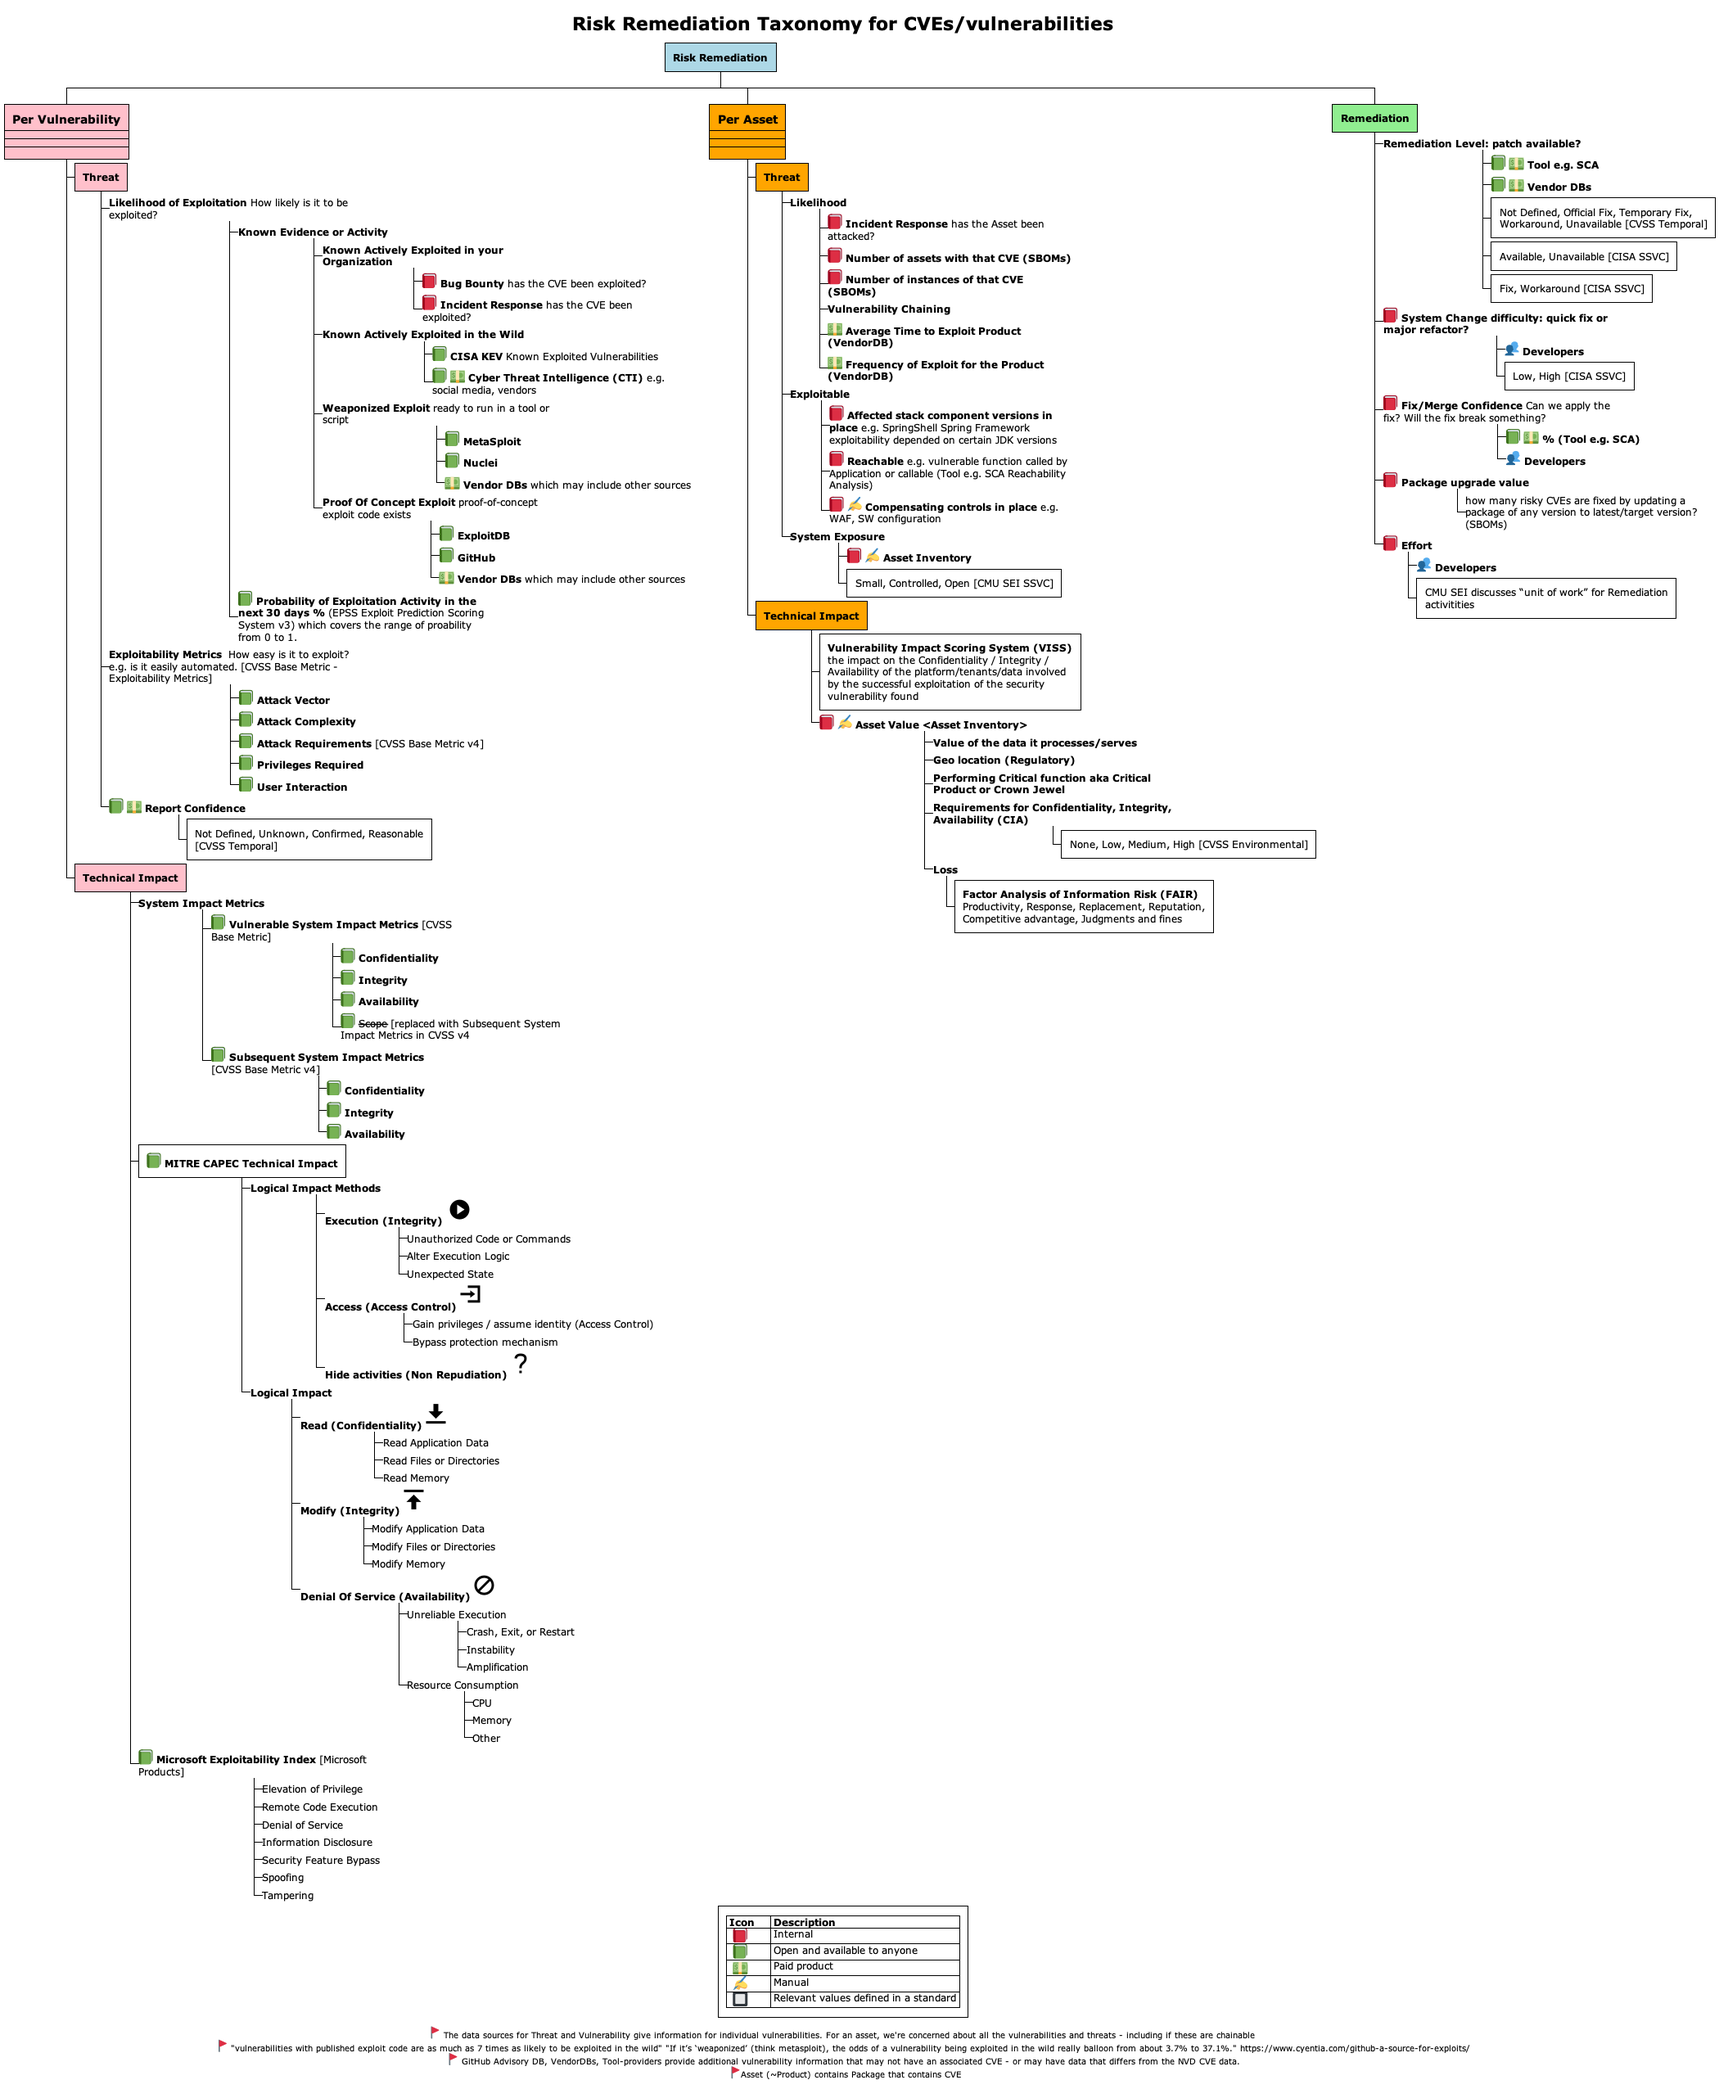
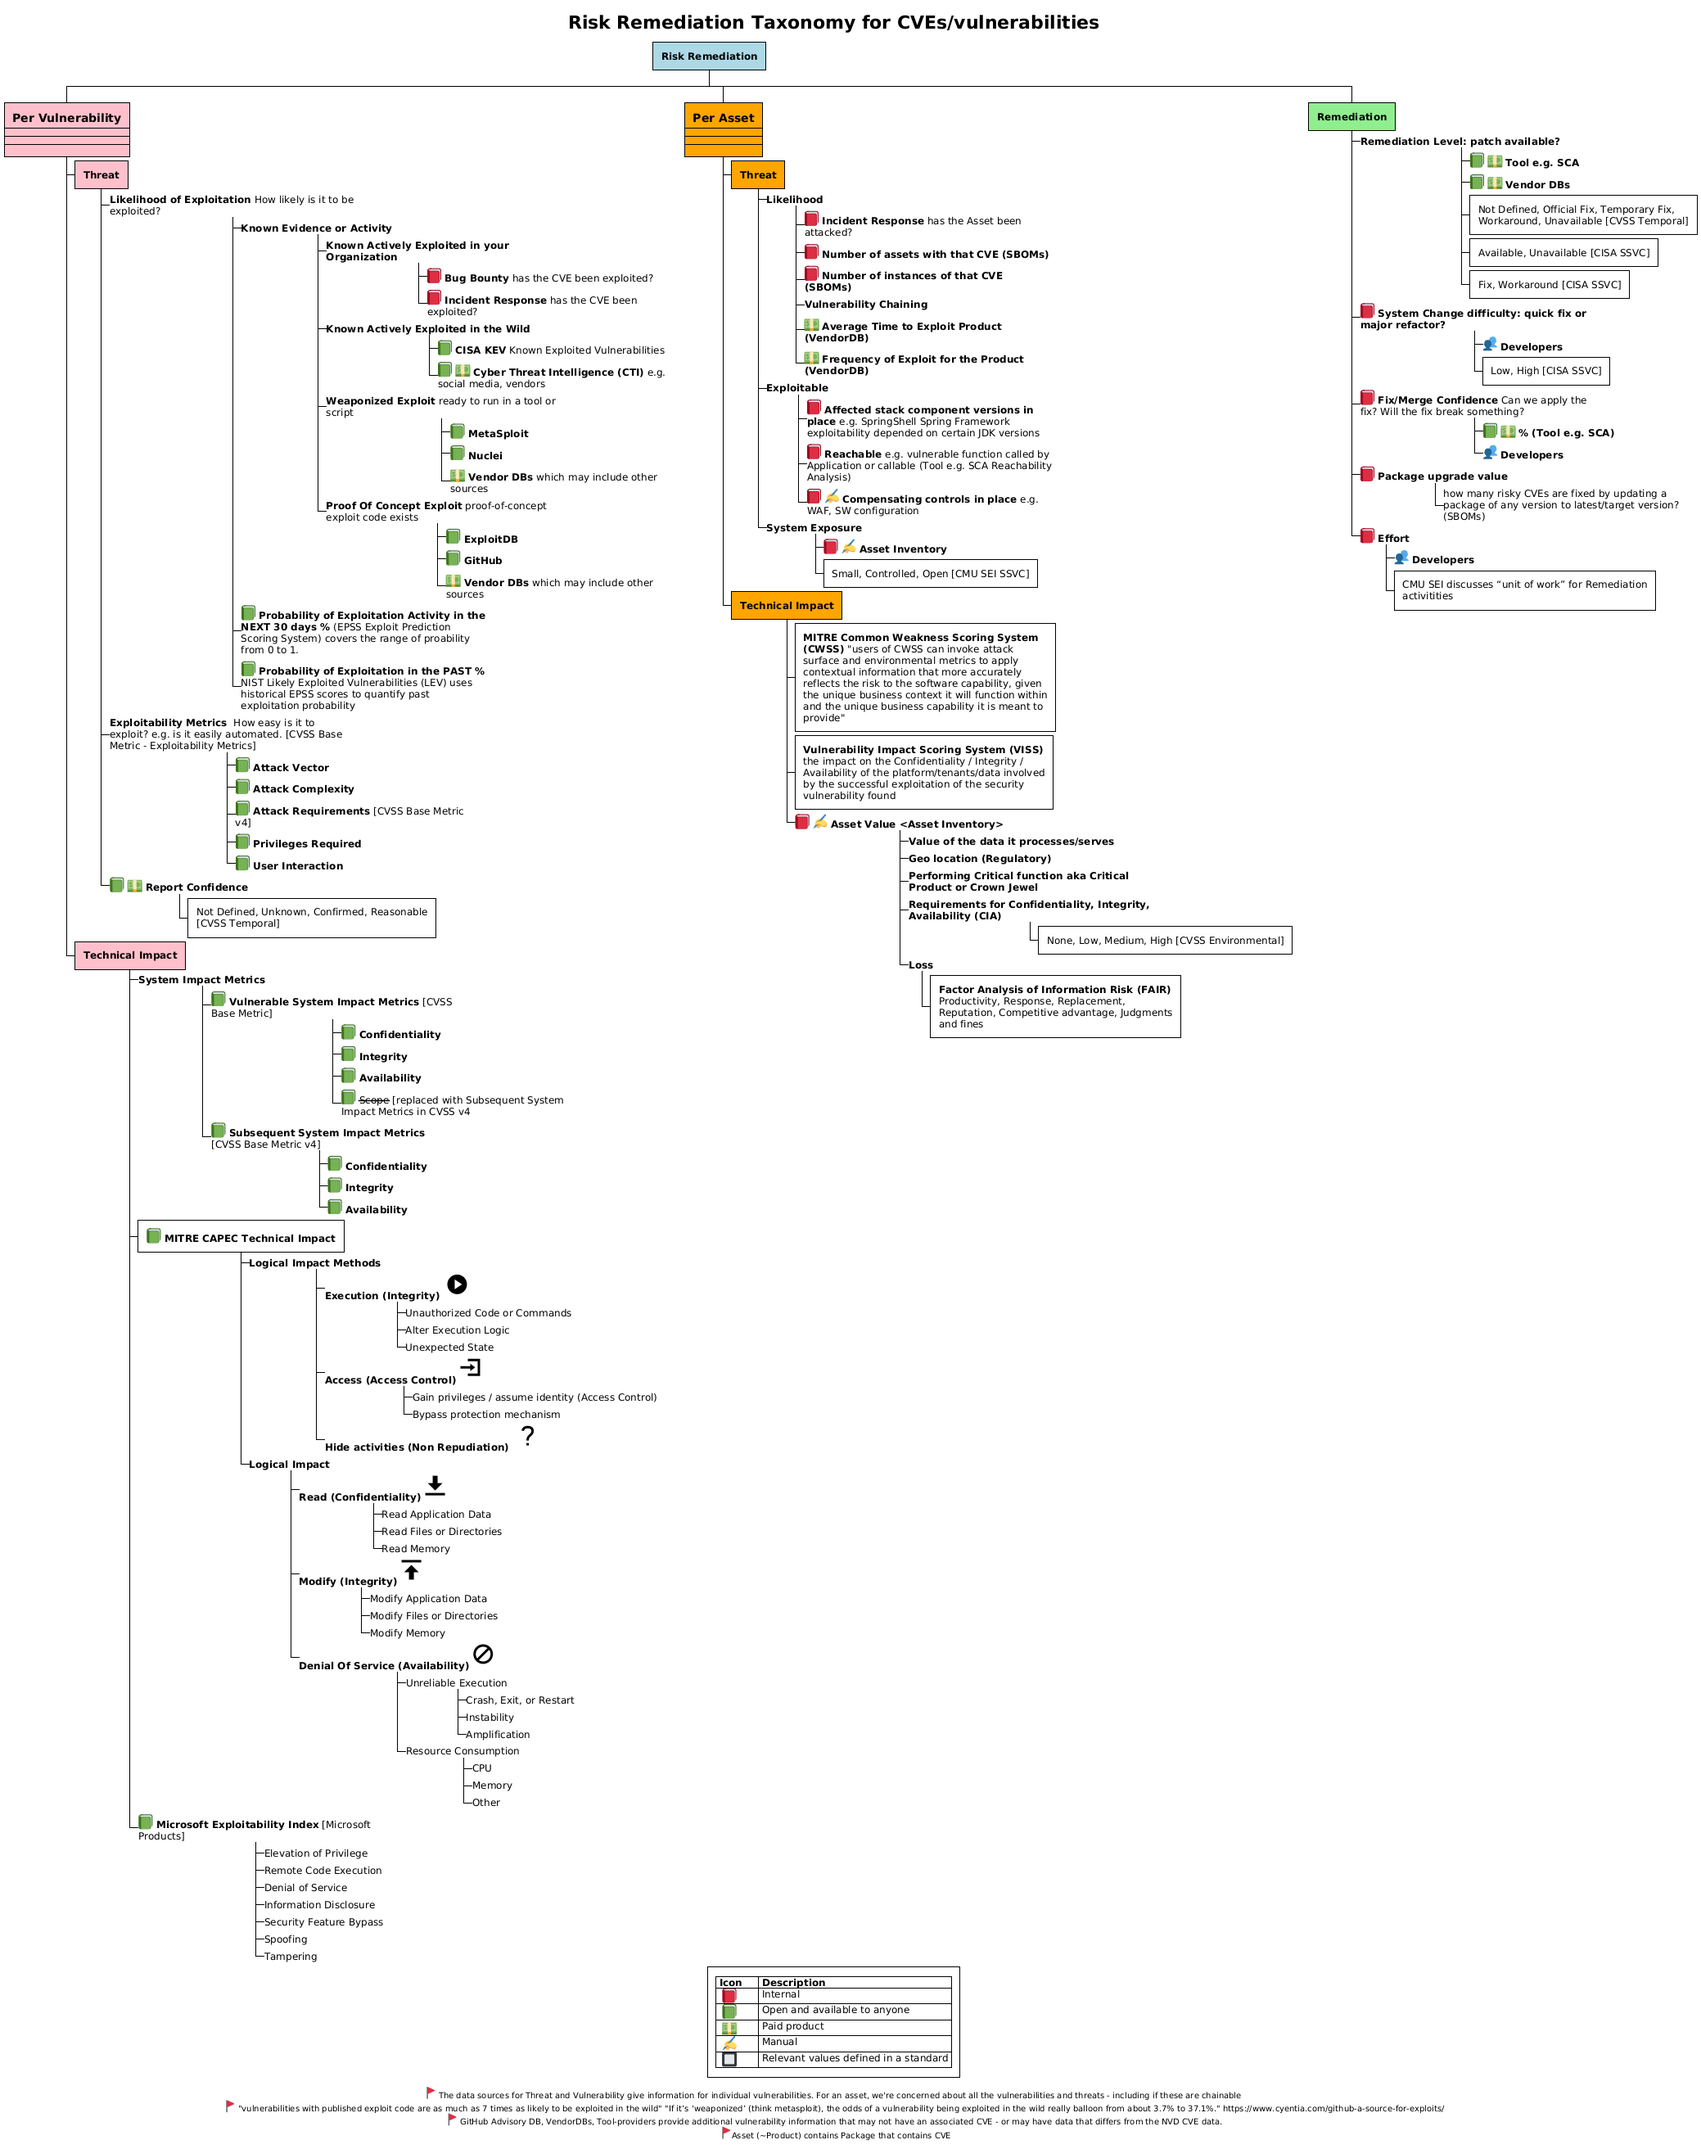
add lev risk remediation diagram

diff --git a/docs/epss/LEV.md b/docs/epss/LEV.md
@@ -21,6 +21,7 @@ CSWP 41. https://doi.org/10.6028/NIST.CSWP.41
 
 ## Why LEV Matters
 
+
 !!! tip "**KEY INSIGHT: LEV gives an additional View of Vulnerability Risk**"
 
     LEV fills a gap by looking backward in time, complementing forward-looking and current exploitation data:
@@ -29,6 +30,13 @@ CSWP 41. https://doi.org/10.6028/NIST.CSWP.41
     |-----------------------------|---------------------------------------------|------------------------------------------------|
     | **Exploited**               | [CISA KEV](../cisa_kev/cisa_kev.md)         |                                        |
     | **Probability of Exploitation** | **LEV (past probability)**                    | [EPSS](./Introduction_to_EPSS.md) (next 30 days) |
+
+<figure markdown>
+  ![](../assets/images/lev_risk.png){ width="800px" }
+  <figcaption></figcaption>
+</figure>
+
+*The diagram above is an extract from [Risk Remediation Taxonomy Detailed](../risk/Understanding_Risk.md#risk-remediation-taxonomy-detailed).*
 
 [CISA KEV](../cisa_kev/cisa_kev.md) is a list of vulnerabilities that have been **exploited** in the wild (**past**).
 
